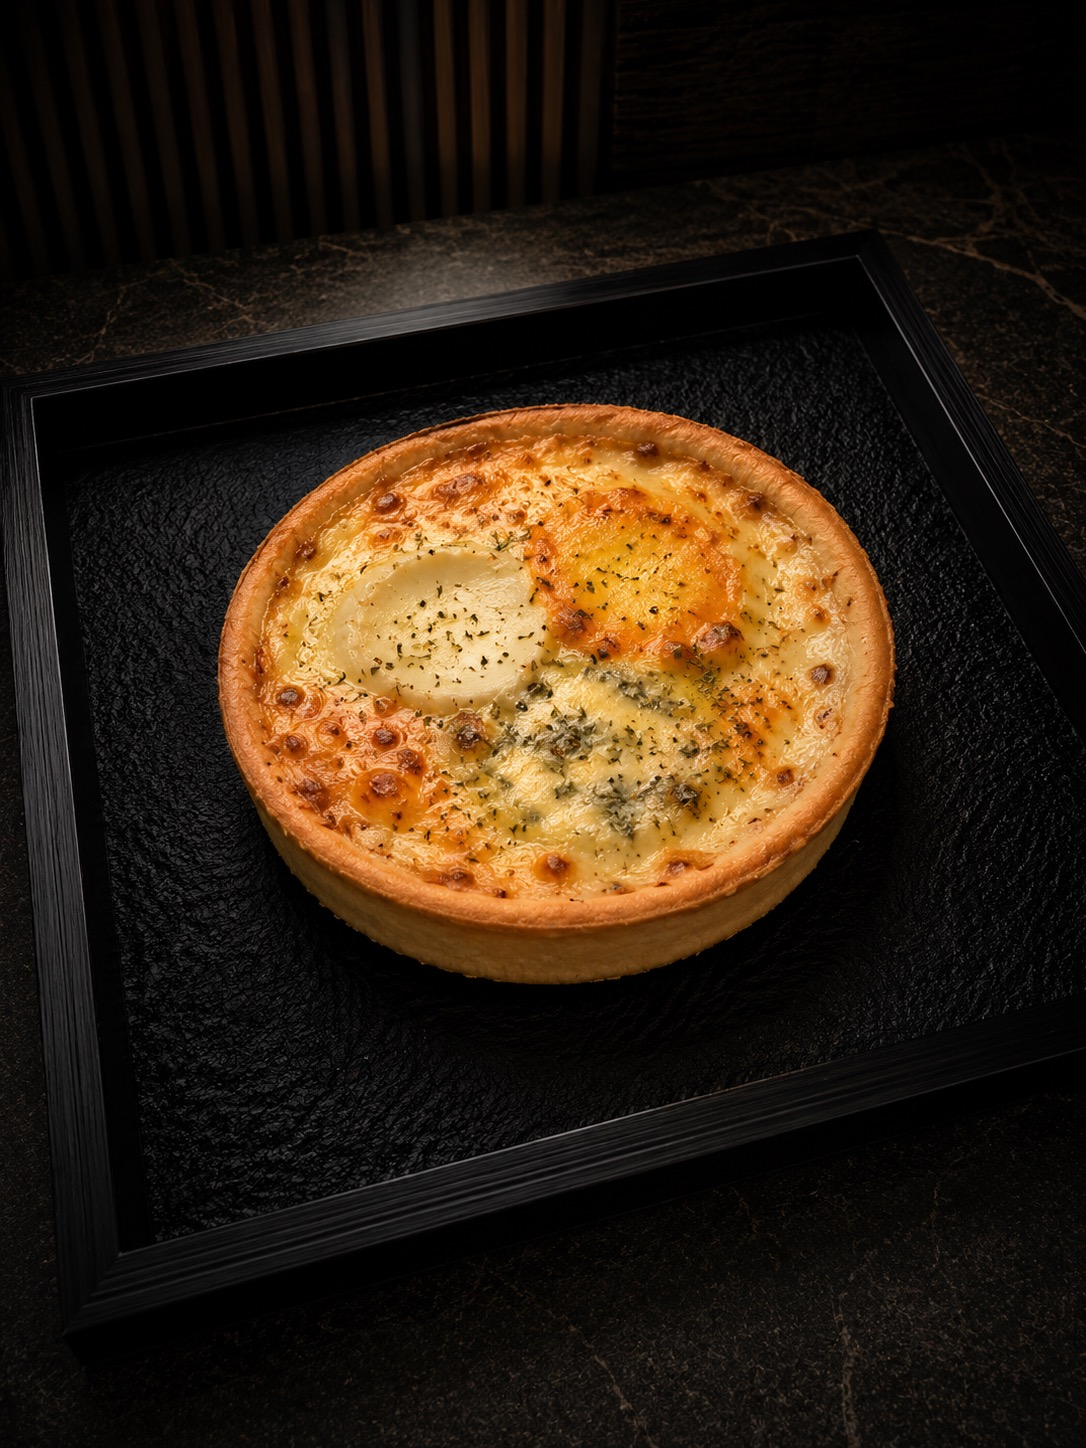
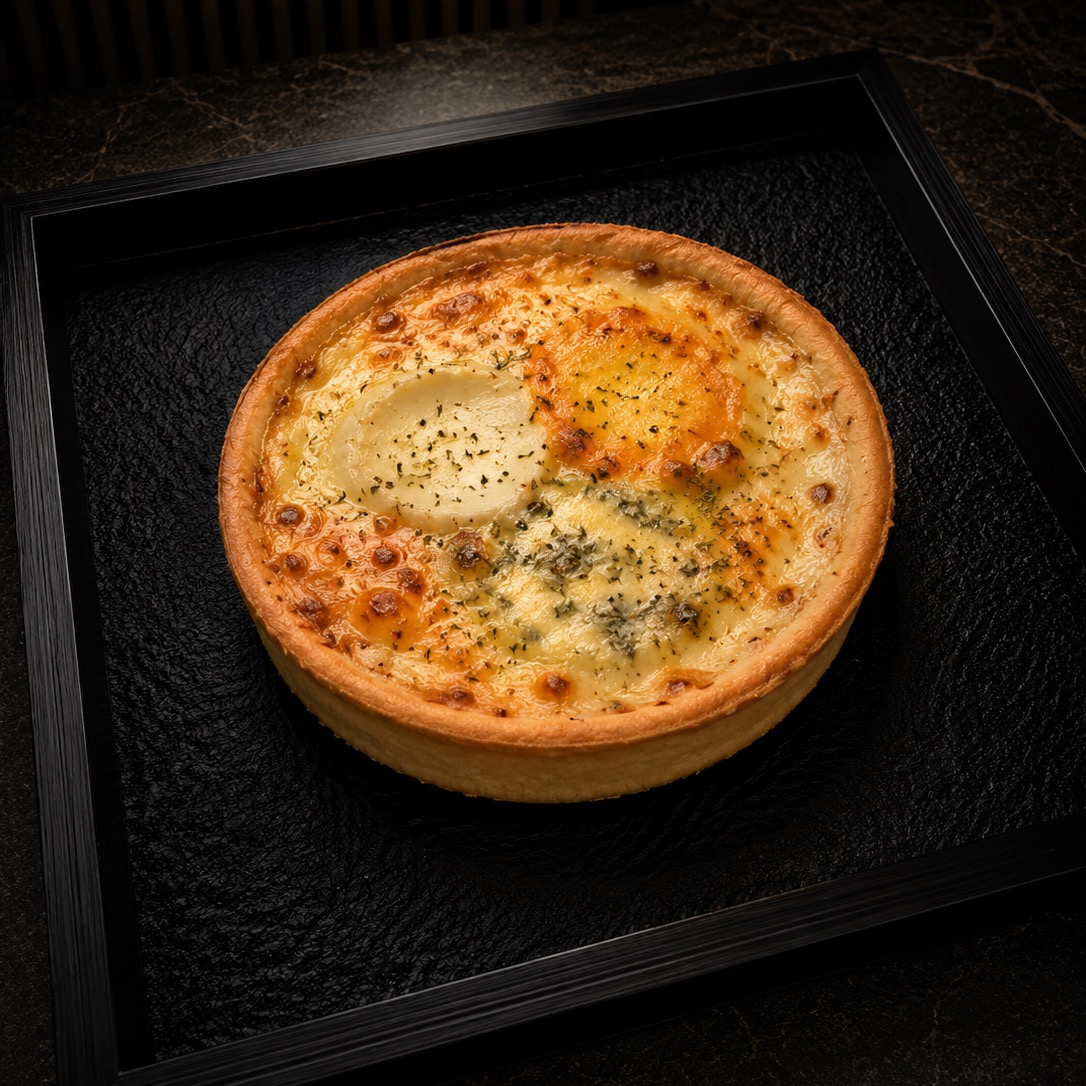
Photos produit recadrées en carré centré 1:1 + suppression du zoom sur les cartes (moins zoomé, produit entier)

diff --git a/index.html b/index.html
@@ -11,7 +11,7 @@
       href="https://fonts.googleapis.com/css2?family=Inter:wght@400;500;600;700;800&family=Playfair+Display:wght@700;800&family=Satisfy&display=swap"
       rel="stylesheet"
     />
-  <link rel="stylesheet" href="styles.css?v=photos-fill1" />
+  <link rel="stylesheet" href="styles.css?v=photos-fill2" />
   <!-- Meta Pixel -->
   <script>
     !function(f,b,e,v,n,t,s){if(f.fbq)return;n=f.fbq=function(){n.callMethod?
@@ -267,6 +267,6 @@
 
   <script src="i18n.js?v=upsell-1"></script>
   <script src="stock.js?v=upsell-cfg1"></script>
-  <script src="script.js?v=photos1"></script>
+  <script src="script.js?v=photos2"></script>
   </body>
 </html>

diff --git a/script.js b/script.js
@@ -1,4 +1,4 @@
-const PRODUCT_IMAGE_VERSION = "drinks-4";
+const PRODUCT_IMAGE_VERSION = "photos-1";
 
 const products = [
   {

diff --git a/styles.css b/styles.css
@@ -772,7 +772,7 @@ main {
   padding: 0;
   object-fit: cover !important;
   object-position: center;
-  transform: scale(1.03) !important;
+  transform: none !important;
   filter: none;
 }
 